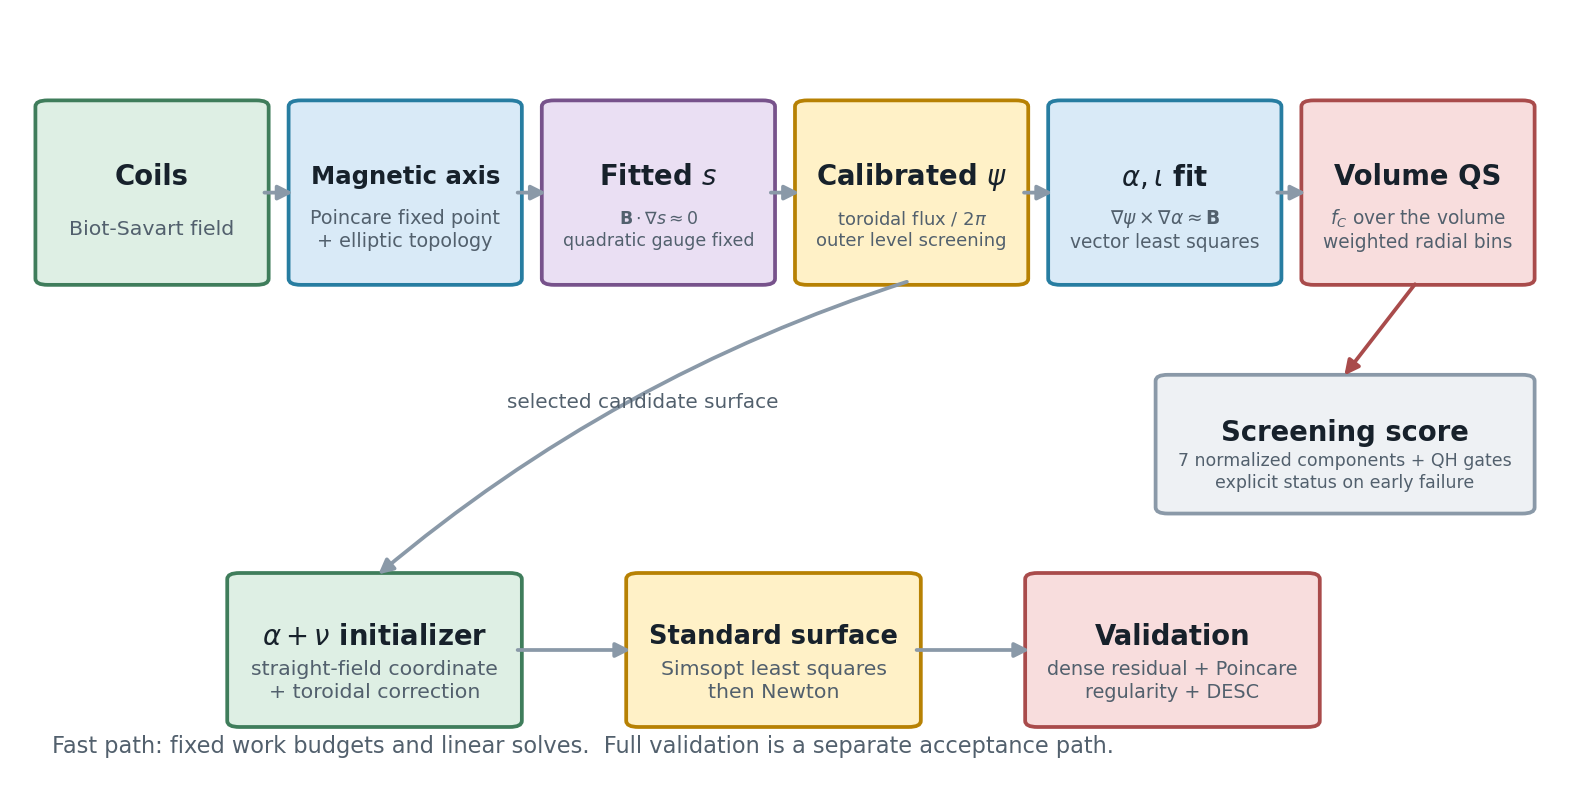
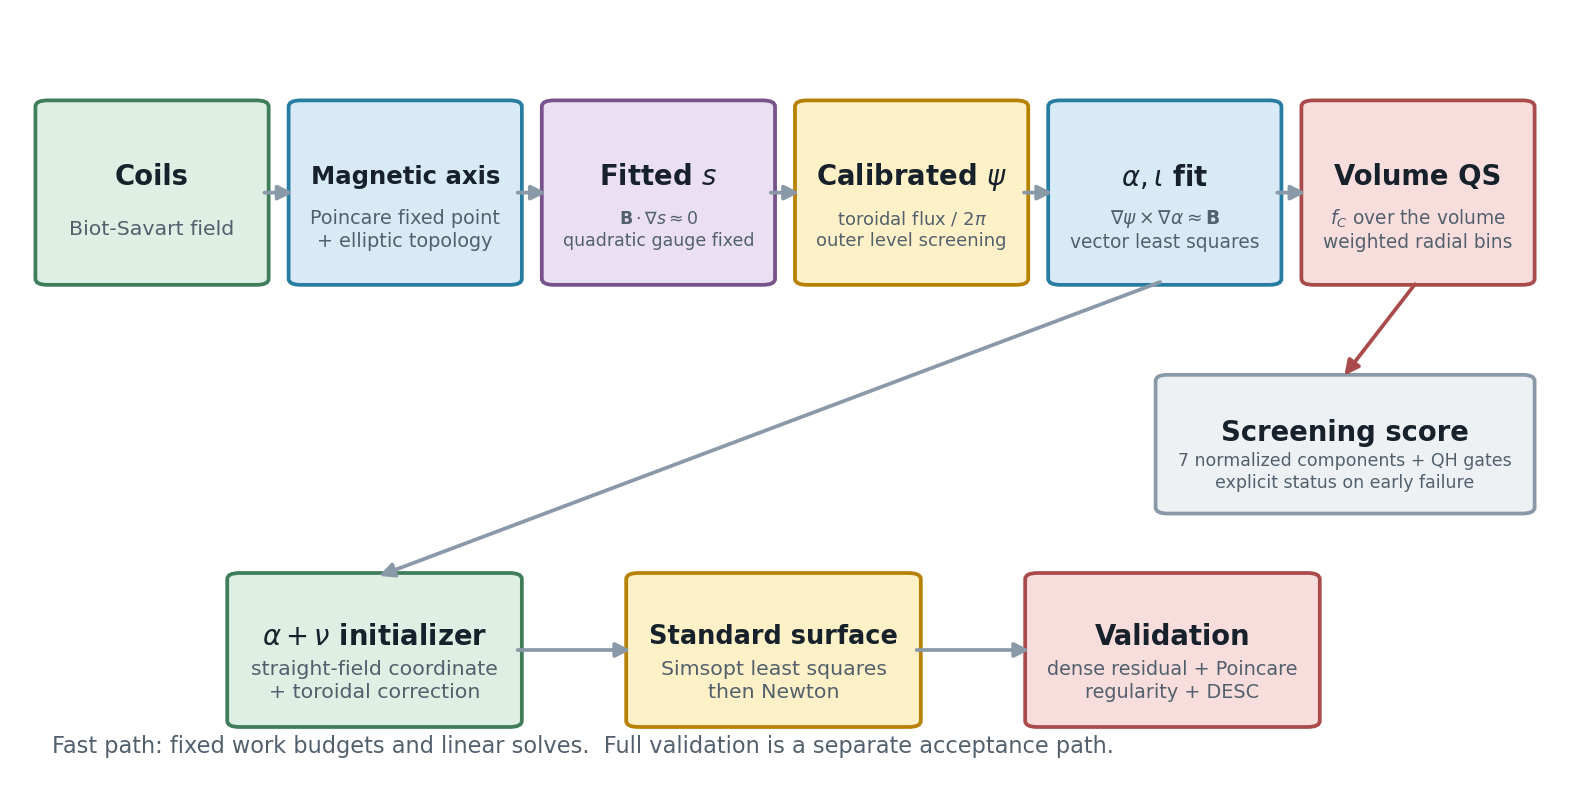
Correct full-validation branch in evaluator diagram

diff --git a/tools/render_docs.py b/tools/render_docs.py
@@ -236,7 +236,7 @@ def evaluator():
         fill=COLORS["red"],
         edge=COLORS["red_edge"],
     )
-    arrow(ax, (0.58, 0.66), (0.23, 0.27), label="selected candidate surface", curve=0.10)
+    arrow(ax, (0.745, 0.66), (0.23, 0.27))
     arrow(ax, (0.32, 0.175), (0.40, 0.175))
     arrow(ax, (0.58, 0.175), (0.66, 0.175))
     ax.text(0.02, 0.04, "Fast path: fixed work budgets and linear solves.  Full validation is a separate acceptance path.", fontsize=9, color=COLORS["muted"])
